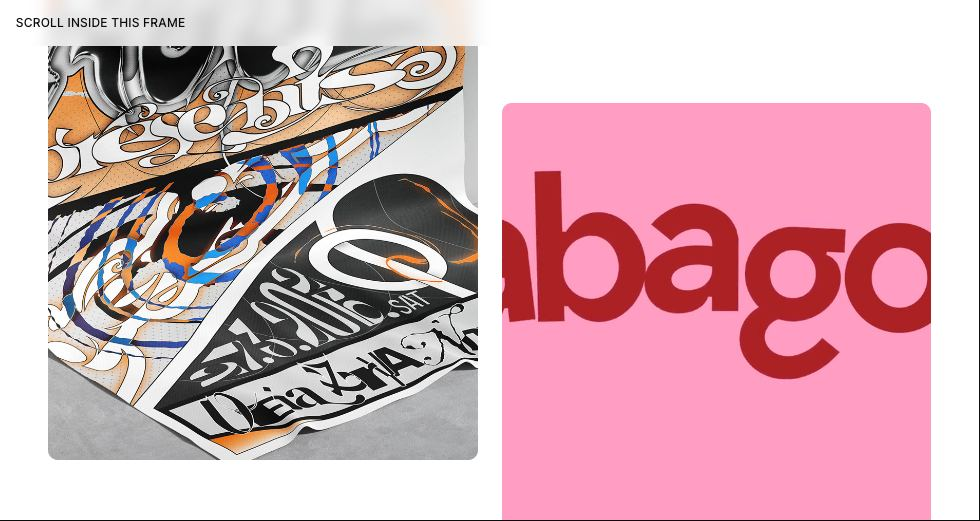
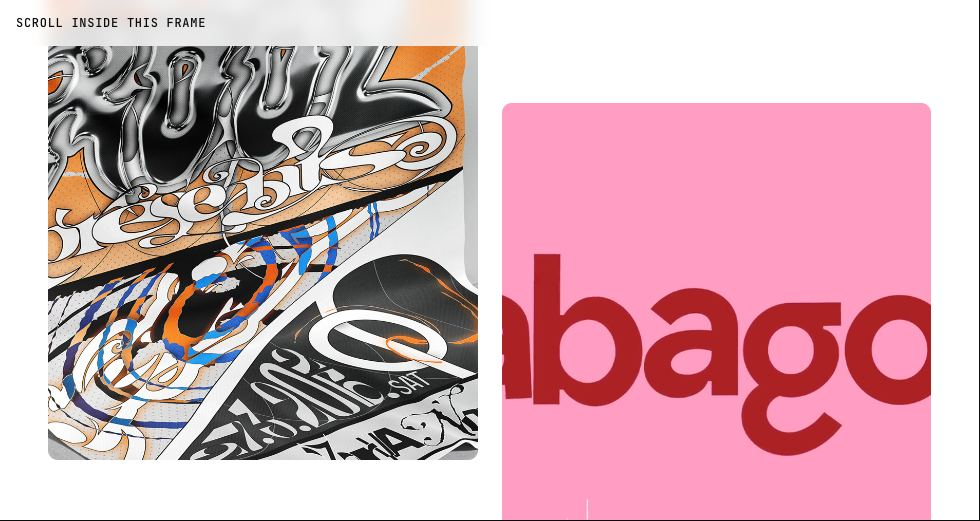
fix: scroll-container blocks wait for the scroller; pull-apart heading actually pulls apart
useScroller() waits until the parent's scroll container ref is attached
before ScrollTriggers are created, so demos with their own scroll box
animate. Pull-apart heading tweened from scrollWidth (already full
width); it now starts from the words' own width.

diff --git a/registry/blocks/pull-apart-heading/PullApartHeading.tsx b/registry/blocks/pull-apart-heading/PullApartHeading.tsx
@@ -1,5 +1,5 @@
 import { useRef } from 'react'
-import { gsap, useGSAP } from '@kit/lib/gsap'
+import { gsap, useGSAP, useScroller } from '@kit/lib/gsap'
 
 export interface PullApartHeadingProps {
   left: string
@@ -11,21 +11,25 @@ export interface PullApartHeadingProps {
 /** Two words that start together and are pushed to opposite edges as the heading scrolls in (bleibtgleich.dev). */
 export default function PullApartHeading({ left, right, className = '', scroller }: PullApartHeadingProps) {
   const heading = useRef<HTMLDivElement>(null)
+  const scrollerEl = useScroller(scroller)
 
   useGSAP(
     () => {
+      if (scrollerEl === undefined) return
       const el = heading.current!
+      // Where the words sit side by side: their own widths plus the gap (scrollWidth would be the full row)
+      const together = () => [...el.children].reduce((w, c) => w + c.getBoundingClientRect().width, 0) + parseFloat(getComputedStyle(el).columnGap || '0')
       gsap.fromTo(
         el,
-        { width: () => el.scrollWidth },
+        { width: together },
         {
           width: '100%',
           ease: 'none',
-          scrollTrigger: { trigger: el, start: 'top 95%', end: 'top 25%', scrub: true, invalidateOnRefresh: true, scroller: scroller?.current ?? undefined },
+          scrollTrigger: { trigger: el, start: 'top 95%', end: 'top 25%', scrub: true, invalidateOnRefresh: true, scroller: scrollerEl ?? undefined },
         },
       )
     },
-    { dependencies: [left, right] },
+    { dependencies: [left, right, scrollerEl] },
   )
 
   return (

diff --git a/registry/blocks/parallax-window/ParallaxWindow.tsx b/registry/blocks/parallax-window/ParallaxWindow.tsx
@@ -1,5 +1,5 @@
 import { useRef } from 'react'
-import { gsap, useGSAP } from '@kit/lib/gsap'
+import { gsap, useGSAP, useScroller } from '@kit/lib/gsap'
 import LazyVideo from '@kit/blocks/lazy-video/LazyVideo'
 
 export interface ParallaxWindowProps {
@@ -15,20 +15,22 @@ export interface ParallaxWindowProps {
 /** Donut-studio window: a rounded frame with the media drifting inside it as you scroll. */
 export default function ParallaxWindow({ src, type = 'image', alt = '', className = '', amount = 0.14, scroller }: ParallaxWindowProps) {
   const frame = useRef<HTMLDivElement>(null)
+  const scrollerEl = useScroller(scroller)
 
   useGSAP(
     () => {
+      if (scrollerEl === undefined) return
       gsap.fromTo(
         '[data-inner]',
         { yPercent: -amount * 100 },
         {
           yPercent: amount * 100,
           ease: 'none',
-          scrollTrigger: { trigger: frame.current, start: 'top bottom', end: 'bottom top', scrub: true, scroller: scroller?.current ?? undefined },
+          scrollTrigger: { trigger: frame.current, start: 'top bottom', end: 'bottom top', scrub: true, scroller: scrollerEl ?? undefined },
         },
       )
     },
-    { scope: frame, dependencies: [amount] },
+    { scope: frame, dependencies: [amount, scrollerEl] },
   )
 
   return (

diff --git a/registry/blocks/melt-text/MeltText.tsx b/registry/blocks/melt-text/MeltText.tsx
@@ -1,5 +1,5 @@
 import { useId, useRef } from 'react'
-import { gsap, ScrollTrigger, SplitText, useGSAP, prefersReducedMotion } from '@kit/lib/gsap'
+import { gsap, ScrollTrigger, SplitText, useGSAP, useScroller, prefersReducedMotion } from '@kit/lib/gsap'
 
 export interface MeltTextProps {
   children: string
@@ -39,10 +39,11 @@ export default function MeltText({
   const root = useRef<HTMLElement>(null)
   const defs = useRef<SVGDefsElement>(null)
   const uid = useId().replace(/:/g, '')
+  const scrollerEl = useScroller(scroller)
 
   useGSAP(
     () => {
-      if (prefersReducedMotion()) return
+      if (prefersReducedMotion() || scrollerEl === undefined) return
       let revealed = false
 
       SplitText.create(root.current!, {
@@ -88,14 +89,14 @@ export default function MeltText({
               trigger: root.current,
               start,
               once: true,
-              scroller: scroller?.current ?? undefined,
+              scroller: scrollerEl ?? undefined,
               onEnter: () => tl.play(),
             })
           return tl
         },
       })
     },
-    { scope: root },
+    { scope: root, dependencies: [scrollerEl] },
   )
 
   return (

diff --git a/registry/lib/gsap.ts b/registry/lib/gsap.ts
@@ -1,3 +1,4 @@
+import { useEffect, useState } from 'react'
 import gsap from 'gsap'
 import { ScrollTrigger } from 'gsap/ScrollTrigger'
 import { SplitText } from 'gsap/SplitText'
@@ -10,5 +11,20 @@ gsap.defaults({ ease: 'power3.out', duration: 1 })
 
 export const prefersReducedMotion = () =>
   typeof window !== 'undefined' && window.matchMedia('(prefers-reduced-motion: reduce)').matches
+
+/**
+ * The scroll container a block's ScrollTriggers should watch, once it exists.
+ * A parent's ref is attached after a child's layout effects, so `scroller.current`
+ * is still null on useGSAP's first run. Wait for this before creating triggers:
+ * it is `undefined` while pending, `null` for the page, else the element.
+ */
+export function useScroller(scroller?: React.RefObject<HTMLElement | null>) {
+  const [el, setEl] = useState<HTMLElement | null | undefined>(scroller ? undefined : null)
+  useEffect(() => {
+    const id = requestAnimationFrame(() => setEl(scroller?.current ?? null))
+    return () => cancelAnimationFrame(id)
+  }, [scroller])
+  return el
+}
 
 export { gsap, ScrollTrigger, SplitText, Draggable, useGSAP }

diff --git a/registry/blocks/pull-apart-heading/demo.tsx b/registry/blocks/pull-apart-heading/demo.tsx
@@ -12,7 +12,7 @@ export default function Demo({ values }: DemoProps) {
   return (
     <div ref={scroller} data-lenis-prevent className="h-[480px] overflow-y-auto">
       <p className="caption p-4">Scroll inside this frame</p>
-      <div className="px-6 pt-[42vh] pb-[50vh] md:px-12">
+      <div className="px-6 pt-[460px] pb-[50vh] md:px-12">
         <PullApartHeading key={`${values.left}${values.right}`} scroller={scroller} left={String(values.left)} right={String(values.right)} className="text-headline" />
       </div>
     </div>
